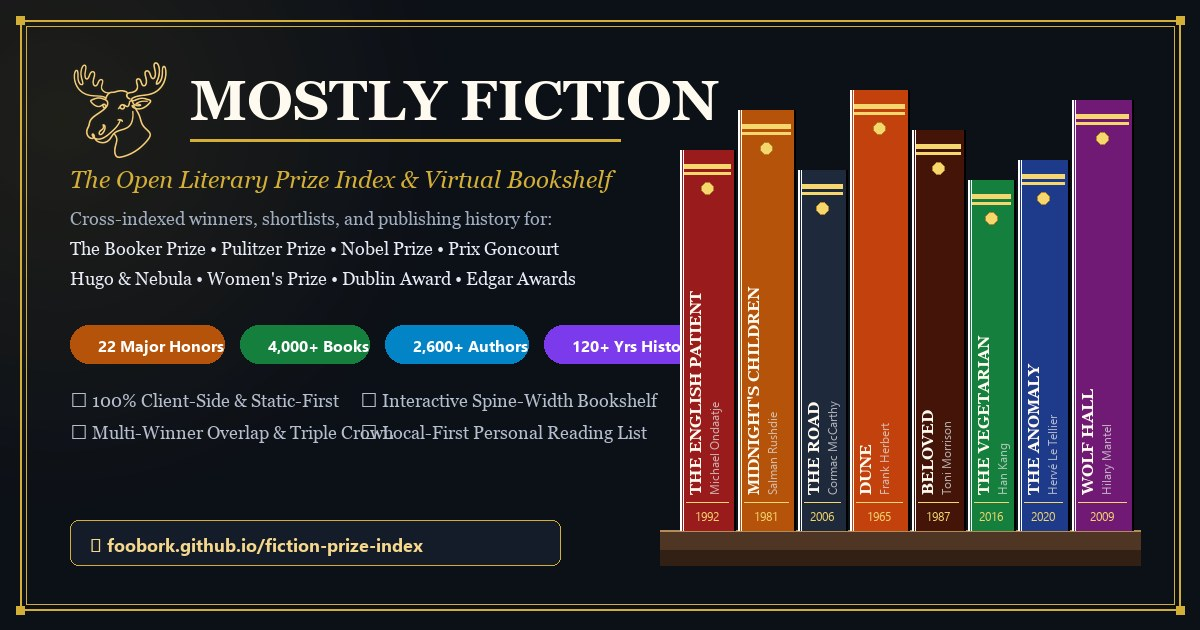
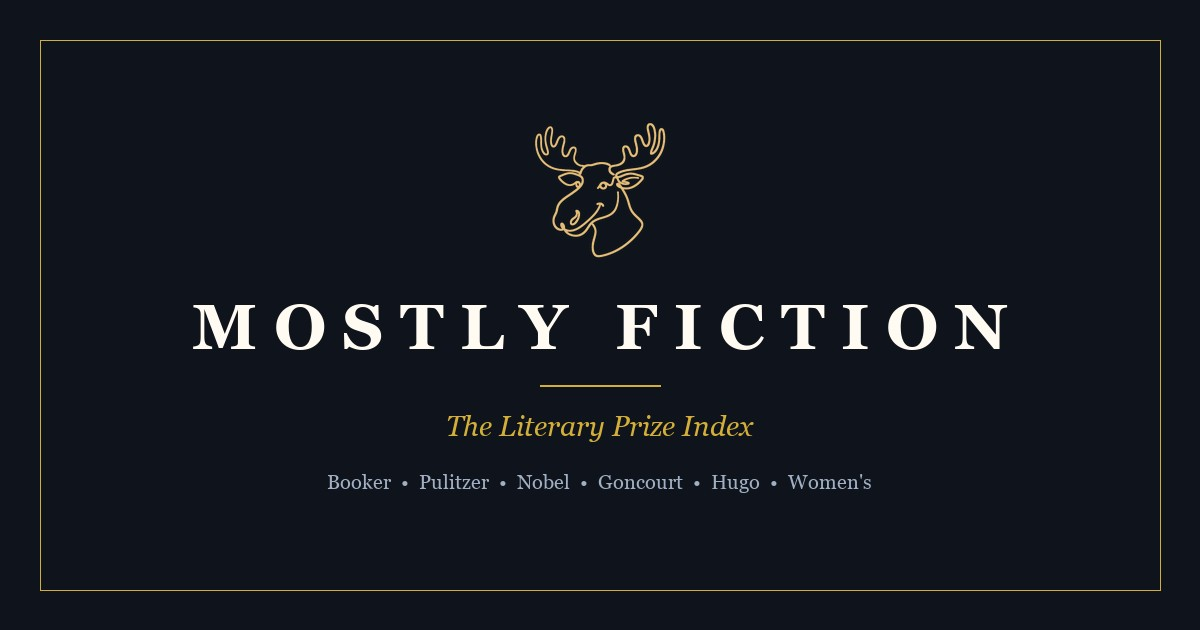
feat(sharing): simplify main OG card and add dynamic per-book sharing with cover art

diff --git a/src/app/book/[id]/page.tsx b/src/app/book/[id]/page.tsx
@@ -1,0 +1,250 @@
+import React from 'react';
+import type { Metadata } from 'next';
+import Link from 'next/link';
+import { notFound } from 'next/navigation';
+import { books, getEnrichedBooks, prizes } from '@/lib/data';
+import { BookCover } from '@/components/BookCover';
+import { MooseIcon } from '@/components/MooseIcon';
+import { Trophy, BookOpen, Share2, ArrowLeft, ExternalLink } from 'lucide-react';
+
+interface BookPageProps {
+  params: {
+    id: string;
+  };
+}
+
+export async function generateStaticParams() {
+  return books.map((b) => ({
+    id: b.id,
+  }));
+}
+
+export async function generateMetadata({ params }: BookPageProps): Promise<Metadata> {
+  const enrichedBooks = getEnrichedBooks();
+  const book = enrichedBooks.find((b) => b.id === params.id);
+
+  if (!book) {
+    return {
+      title: 'Book Not Found | Mostly Fiction',
+    };
+  }
+
+  // Construct winning / nomination summary
+  const wins = book.nominations.filter((n) => n.status === 'winner');
+  let prizeText = '';
+  if (wins.length > 0) {
+    prizeText = `Winner of the ${wins.map((w) => `${w.year} ${w.prize.name}`).join(' and ')}.`;
+  } else if (book.nominations.length > 0) {
+    const firstNom = book.nominations[0];
+    prizeText = `${firstNom.status.toUpperCase()} for the ${firstNom.year} ${firstNom.prize.name}.`;
+  }
+
+  const desc = `${prizeText} ${book.synopsis || ''}`.trim();
+  const coverUrl = book.coverImage || 'https://foobork.github.io/fiction-prize-index/og-image.jpg';
+  const pageUrl = `https://foobork.github.io/fiction-prize-index/book/${book.id}/`;
+
+  return {
+    title: `${book.title} by ${book.authorName} | Mostly Fiction`,
+    description: desc,
+    openGraph: {
+      title: `${book.title} by ${book.authorName}`,
+      description: desc,
+      url: pageUrl,
+      type: 'book',
+      siteName: 'Mostly Fiction',
+      images: [
+        {
+          url: coverUrl,
+          alt: `${book.title} cover`,
+        },
+      ],
+    },
+    twitter: {
+      card: 'summary_large_image',
+      title: `${book.title} by ${book.authorName}`,
+      description: desc,
+      images: [coverUrl],
+    },
+  };
+}
+
+export default function BookPage({ params }: BookPageProps) {
+  const enrichedBooks = getEnrichedBooks();
+  const book = enrichedBooks.find((b) => b.id === params.id);
+
+  if (!book) {
+    notFound();
+  }
+
+  const basePath = process.env.NEXT_PUBLIC_BASE_PATH || '';
+  const appUrl = `${basePath}/?book=${book.id}`;
+  const shareText = encodeURIComponent(
+    `Check out "${book.title}" by ${book.authorName} on Mostly Fiction: https://foobork.github.io/fiction-prize-index/book/${book.id}/`
+  );
+  const whatsappUrl = `https://api.whatsapp.com/send?text=${shareText}`;
+
+  return (
+    <div className="min-h-screen bg-parchment-50 dark:bg-ink-950 text-parchment-950 dark:text-parchment-100 antialiased py-8 px-4 sm:px-6 lg:px-8">
+      {/* Header */}
+      <div className="max-w-4xl mx-auto mb-8 flex items-center justify-between border-b border-parchment-200 dark:border-ink-800 pb-4">
+        <Link
+          href="/"
+          className="flex items-center space-x-3 text-parchment-900 dark:text-parchment-100 hover:opacity-80 transition-opacity"
+        >
+          <MooseIcon className="w-8 h-8 text-gilded-600 dark:text-gilded-400" />
+          <div>
+            <span className="font-serif font-bold text-lg tracking-wide block">MOSTLY FICTION</span>
+            <span className="text-xs text-parchment-500 dark:text-ink-400 tracking-wider uppercase block">
+              The Literary Prize Index
+            </span>
+          </div>
+        </Link>
+        <Link
+          href={appUrl}
+          className="inline-flex items-center space-x-2 text-xs sm:text-sm font-medium px-4 py-2 rounded-lg bg-gilded-600 hover:bg-gilded-700 text-white shadow-sm transition-colors"
+        >
+          <BookOpen className="w-4 h-4" />
+          <span>Open in Library Shelf</span>
+        </Link>
+      </div>
+
+      {/* Main Book Card */}
+      <main className="max-w-4xl mx-auto bg-white dark:bg-ink-900 border border-parchment-200 dark:border-ink-800 rounded-2xl shadow-xl overflow-hidden p-6 sm:p-10">
+        <div className="grid grid-cols-1 md:grid-cols-12 gap-8 items-start">
+          {/* Cover Art Column */}
+          <div className="md:col-span-5 flex flex-col items-center">
+            <BookCover book={book} size="xl" showHonorsBadge className="shadow-2xl rounded-lg" />
+            
+            {/* Share Buttons */}
+            <div className="w-full max-w-xs mt-6 space-y-2">
+              <a
+                href={whatsappUrl}
+                target="_blank"
+                rel="noopener noreferrer"
+                className="w-full flex items-center justify-center space-x-2 py-2.5 px-4 bg-emerald-600 hover:bg-emerald-700 text-white text-xs sm:text-sm font-semibold rounded-lg shadow transition-colors"
+              >
+                <span>Share on WhatsApp</span>
+              </a>
+              <Link
+                href={appUrl}
+                className="w-full flex items-center justify-center space-x-2 py-2 px-4 bg-parchment-100 hover:bg-parchment-200 dark:bg-ink-800 dark:hover:bg-ink-700 text-parchment-900 dark:text-parchment-200 text-xs sm:text-sm font-medium rounded-lg border border-parchment-300 dark:border-ink-700 transition-colors"
+              >
+                <ArrowLeft className="w-4 h-4" />
+                <span>Browse All Winners in Shelf</span>
+              </Link>
+            </div>
+          </div>
+
+          {/* Details Column */}
+          <div className="md:col-span-7 space-y-6">
+            <div>
+              <div className="flex flex-wrap gap-1.5 mb-2">
+                {book.genres.map((genre) => (
+                  <span
+                    key={genre}
+                    className="text-[11px] font-sans px-2.5 py-0.5 rounded-full bg-parchment-100 dark:bg-ink-800 text-parchment-700 dark:text-parchment-300 border border-parchment-200 dark:border-ink-700"
+                  >
+                    {genre}
+                  </span>
+                ))}
+              </div>
+              <h1 className="font-serif text-3xl sm:text-4xl font-bold text-parchment-950 dark:text-parchment-50 leading-tight">
+                {book.title}
+              </h1>
+              <p className="font-serif italic text-lg sm:text-xl text-parchment-700 dark:text-parchment-300 mt-1">
+                by {book.authorName}
+              </p>
+              {book.translator && (
+                <p className="text-xs text-parchment-500 dark:text-ink-400 mt-0.5">
+                  Translated by {book.translator}
+                </p>
+              )}
+            </div>
+
+            {/* Honors & Nominations */}
+            <div className="space-y-3">
+              <h2 className="text-xs uppercase tracking-wider font-bold text-parchment-500 dark:text-ink-400">
+                Honors & Prizes
+              </h2>
+              <div className="space-y-2.5">
+                {book.nominations.map((nom) => (
+                  <div
+                    key={nom.id}
+                    className="p-3 rounded-xl bg-parchment-50 dark:bg-ink-800/60 border border-parchment-200 dark:border-ink-700"
+                  >
+                    <div className="flex items-center space-x-2">
+                      <Trophy
+                        className={`w-4 h-4 ${
+                          nom.status === 'winner'
+                            ? 'text-amber-500 fill-amber-500'
+                            : 'text-parchment-400 dark:text-ink-400'
+                        }`}
+                      />
+                      <span className="font-serif font-bold text-sm text-parchment-900 dark:text-parchment-100">
+                        {nom.year} {nom.prize.name}
+                      </span>
+                      <span
+                        className={`text-[10px] font-bold uppercase tracking-wider px-2 py-0.5 rounded-full ${
+                          nom.status === 'winner'
+                            ? 'bg-amber-100 text-amber-900 dark:bg-amber-900/40 dark:text-amber-200'
+                            : 'bg-parchment-200 text-parchment-700 dark:bg-ink-700 dark:text-ink-300'
+                        }`}
+                      >
+                        {nom.status}
+                      </span>
+                    </div>
+                    {nom.citation && (
+                      <p className="text-xs text-parchment-700 dark:text-parchment-300 italic mt-1.5 pl-6 border-l-2 border-gilded-500/40">
+                        "{nom.citation}"
+                      </p>
+                    )}
+                  </div>
+                ))}
+              </div>
+            </div>
+
+            {/* Synopsis */}
+            {book.synopsis && (
+              <div>
+                <h2 className="text-xs uppercase tracking-wider font-bold text-parchment-500 dark:text-ink-400 mb-2">
+                  Synopsis
+                </h2>
+                <p className="text-sm leading-relaxed text-parchment-800 dark:text-parchment-200 font-serif">
+                  {book.synopsis}
+                </p>
+              </div>
+            )}
+
+            {/* Publishing Metadata */}
+            <div className="pt-4 border-t border-parchment-200 dark:border-ink-800 text-xs text-parchment-600 dark:text-ink-400 grid grid-cols-2 gap-4">
+              <div>
+                <span className="block font-bold">Published:</span>
+                <span>
+                  {book.publicationYear} ({book.publisher})
+                </span>
+              </div>
+              {book.isbn13 && (
+                <div>
+                  <span className="block font-bold">ISBN:</span>
+                  <span className="font-mono">{book.isbn13}</span>
+                </div>
+              )}
+              {book.pageCount && (
+                <div>
+                  <span className="block font-bold">Length:</span>
+                  <span>{book.pageCount} pages</span>
+                </div>
+              )}
+              {book.countryOfOrigin && (
+                <div>
+                  <span className="block font-bold">Country:</span>
+                  <span>{book.countryOfOrigin}</span>
+                </div>
+              )}
+            </div>
+          </div>
+        </div>
+      </main>
+    </div>
+  );
+}

diff --git a/src/components/BookModal.tsx b/src/components/BookModal.tsx
@@ -7,6 +7,7 @@ import {
   X,
   ExternalLink,
   Link2,
+  Share2,
   Trophy,
   Building,
   Globe,
@@ -66,16 +67,21 @@ export const BookModal: React.FC<BookModalProps> = ({
 
   if (!book) return null;
 
+  const canonicalBookUrl = `https://foobork.github.io/fiction-prize-index/book/${book.id}/`;
+  const whatsappShareUrl = `https://api.whatsapp.com/send?text=${encodeURIComponent(
+    `"${book.title}" by ${book.authorName} on Mostly Fiction: ${canonicalBookUrl}`
+  )}`;
+
   const handleCopyLink = async () => {
     if (typeof window === 'undefined') return;
     try {
-      await navigator.clipboard.writeText(window.location.href);
+      await navigator.clipboard.writeText(canonicalBookUrl);
       setCopied(true);
       window.setTimeout(() => setCopied(false), 2000);
     } catch {
       // Fallback for older mobile browsers without clipboard permission
       const input = document.createElement('input');
-      input.value = window.location.href;
+      input.value = canonicalBookUrl;
       document.body.appendChild(input);
       input.select();
       document.execCommand('copy');
@@ -116,6 +122,17 @@ export const BookModal: React.FC<BookModalProps> = ({
           </button>
 
           <div className="flex items-center gap-1.5">
+            <a
+              href={whatsappShareUrl}
+              target="_blank"
+              rel="noopener noreferrer"
+              className="inline-flex items-center gap-1 px-2.5 py-1.5 rounded-lg text-xs font-medium text-emerald-700 dark:text-emerald-400 hover:bg-emerald-50 dark:hover:bg-emerald-950/40 border border-emerald-200 dark:border-emerald-800 transition-colors"
+              title="Share on WhatsApp with cover preview"
+            >
+              <Share2 className="w-3.5 h-3.5" />
+              <span>WhatsApp</span>
+            </a>
+
             <button
               type="button"
               onClick={handleCopyLink}
